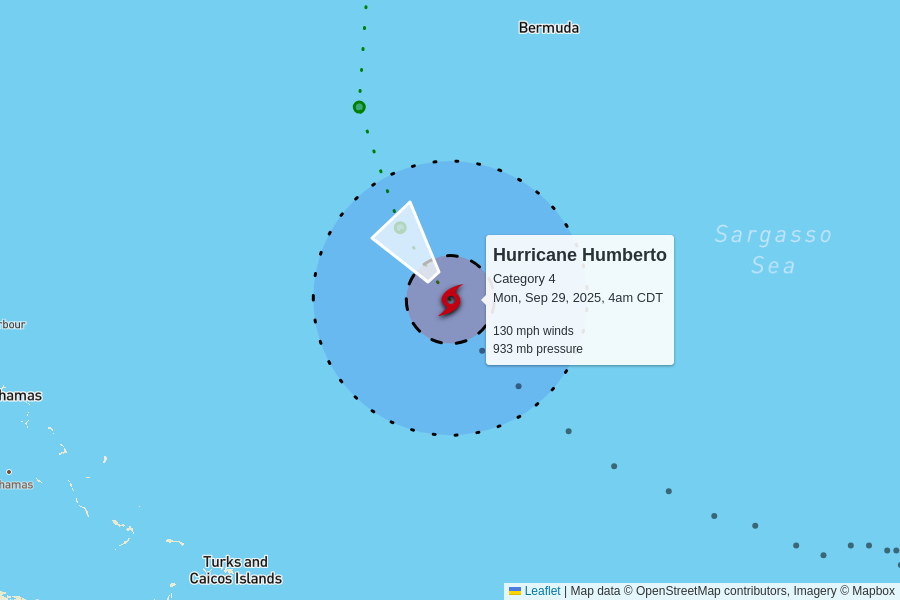
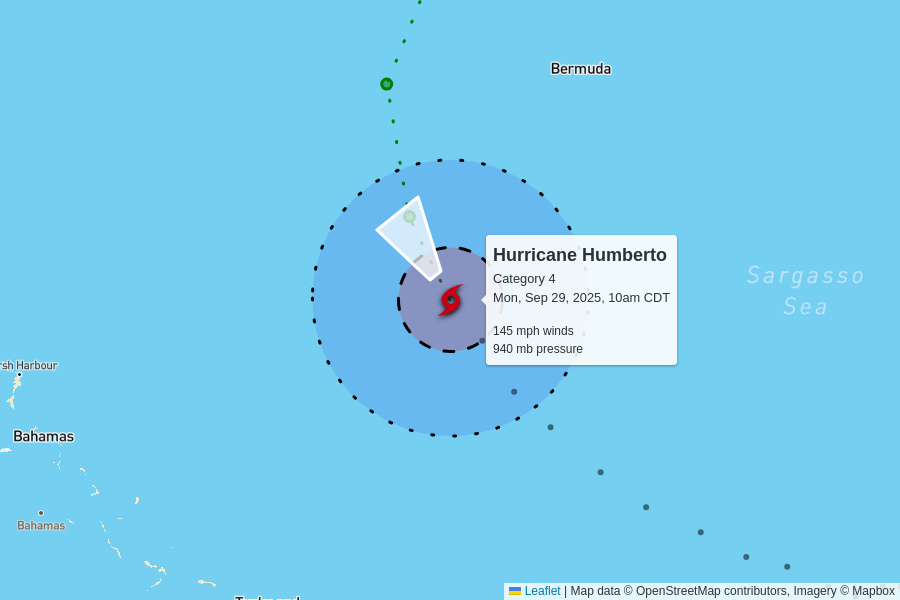
automatic update

diff --git a/docs/index.html b/docs/index.html
@@ -101,54 +101,10 @@
 
     <table>
       <tr>
-        <td colspan="6" class="storm category-4" >
-          <h2>
-            Hurricane Humberto - Category 4
-            <p class="updated">last updated <span data-time>2025-09-29T09:00:00.000Z</span></p>
-          </h2>
-        </td>
-      </tr>
-      
-      <tr>
-        <th class="spacer"></th>
-        <th>wind speed</th>
-        <th>central pressure</th>
-        <th>movement</th>
-        <th>data (CSV)</th>
-        <th>National Hurricane Center</th>
-      </tr>
-      <tr>
-        <td class="spacer"></td>
-        <td>130 mph<br>-10 mph since last update</td>
-        <td>933 mb<br>+5 mb since last update</td>
-        <td>
-          14 mph to the northwest
-          <br/>
-          <span style="display: inline-block; font-size: 1.5em; transform: rotate(320deg);">↑</span>
-        </td>
-        <td><a href="https://raw.githubusercontent.com/mgwalker/atlantic-hurricanes/main/data/csv/AL082025.csv">AL082025.csv</a></td>
-        <td><a href="https://www.nhc.noaa.gov/archive/2025/HUMBERTO.shtml?">NHC advisories</a></td>
-      </tr>
-      <tr id="storm_AL082025" >
-        <td class="spacer">
-        <td colspan="5">
-          <figure>
-            <img src="AL082025.png">
-            <figcaption>
-              Map data &copy; <a href="https://www.openstreetmap.org/copyright">OpenStreetMap</a> contributors,
-              Imagery &copy; <a href="https://www.mapbox.com/">Mapbox</a> |
-              <a href="https://www.mapbox.com/map-feedback/" target="_blank">Improve this map</a>
-            </figcaption>
-          </figure>
-        </td>
-      </tr>
-      
-
-      <tr>
         <td colspan="6" class="storm category-0" >
           <h2>
             Tropical Storm Imelda
-            <p class="updated">last updated <span data-time>2025-09-29T09:00:00.000Z</span></p>
+            <p class="updated">last updated <span data-time>2025-09-29T15:00:00.000Z</span></p>
           </h2>
         </td>
       </tr>
@@ -163,10 +119,10 @@
       </tr>
       <tr>
         <td class="spacer"></td>
-        <td>45 mph<br>+5 mph since last update</td>
-        <td>996 mb<br>-2 mb since last update</td>
+        <td>60 mph<br>+15 mph since last update</td>
+        <td>988 mb<br>-8 mb since last update</td>
         <td>
-          8 mph to the north
+          9 mph to the north
           <br/>
           <span style="display: inline-block; font-size: 1.5em; transform: rotate(360deg);">↑</span>
         </td>
@@ -178,6 +134,50 @@
         <td colspan="5">
           <figure>
             <img src="AL092025.png">
+            <figcaption>
+              Map data &copy; <a href="https://www.openstreetmap.org/copyright">OpenStreetMap</a> contributors,
+              Imagery &copy; <a href="https://www.mapbox.com/">Mapbox</a> |
+              <a href="https://www.mapbox.com/map-feedback/" target="_blank">Improve this map</a>
+            </figcaption>
+          </figure>
+        </td>
+      </tr>
+      
+
+      <tr>
+        <td colspan="6" class="storm category-4" >
+          <h2>
+            Hurricane Humberto - Category 4
+            <p class="updated">last updated <span data-time>2025-09-29T15:00:00.000Z</span></p>
+          </h2>
+        </td>
+      </tr>
+      
+      <tr>
+        <th class="spacer"></th>
+        <th>wind speed</th>
+        <th>central pressure</th>
+        <th>movement</th>
+        <th>data (CSV)</th>
+        <th>National Hurricane Center</th>
+      </tr>
+      <tr>
+        <td class="spacer"></td>
+        <td>145 mph<br>+15 mph since last update</td>
+        <td>940 mb<br>+7 mb since last update</td>
+        <td>
+          13 mph to the northwest
+          <br/>
+          <span style="display: inline-block; font-size: 1.5em; transform: rotate(325deg);">↑</span>
+        </td>
+        <td><a href="https://raw.githubusercontent.com/mgwalker/atlantic-hurricanes/main/data/csv/AL082025.csv">AL082025.csv</a></td>
+        <td><a href="https://www.nhc.noaa.gov/archive/2025/HUMBERTO.shtml?">NHC advisories</a></td>
+      </tr>
+      <tr id="storm_AL082025" >
+        <td class="spacer">
+        <td colspan="5">
+          <figure>
+            <img src="AL082025.png">
             <figcaption>
               Map data &copy; <a href="https://www.openstreetmap.org/copyright">OpenStreetMap</a> contributors,
               Imagery &copy; <a href="https://www.mapbox.com/">Mapbox</a> |
